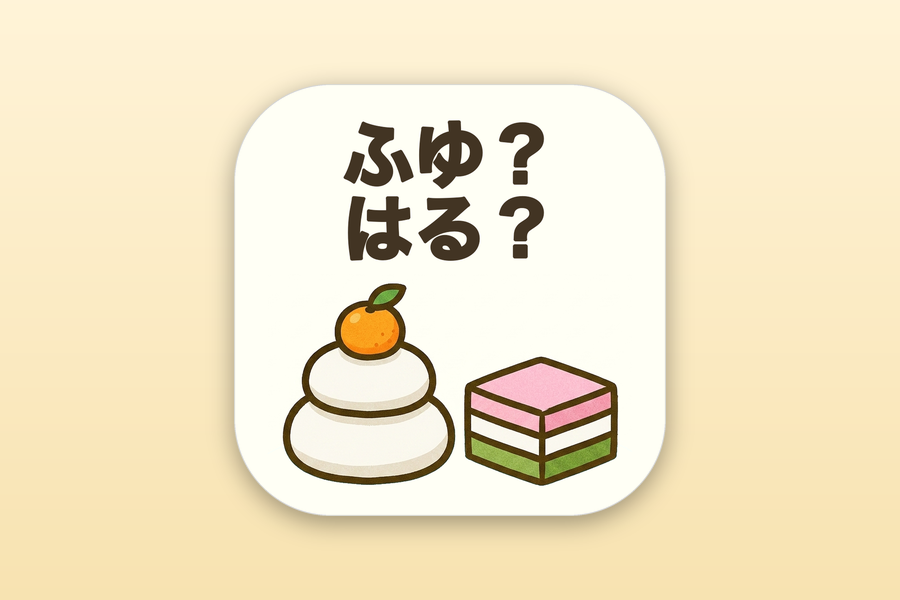
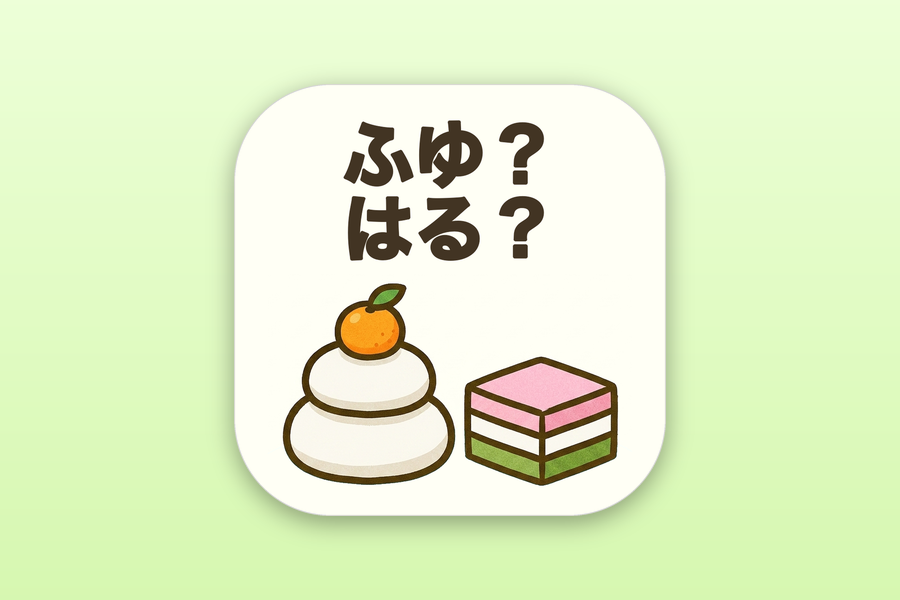
fix: update thumbnail generation script and improve background color handling

diff --git a/tools/make_thumbnail.py b/tools/make_thumbnail.py
@@ -1,11 +1,4 @@
 #!/usr/bin/env python3
-# /// script
-# requires-python = ">=3.10"
-# dependencies = [
-#   "pillow==12.3.0",
-# ]
-# ///
-
 """アプリアイコンからホームページ掲載用サムネイルを生成するCLIツール。
 
 アイコンのドミナントカラー（主要色）を抽出し、その色相のクリーンな
@@ -13,10 +6,10 @@
 アイコンを影付きで載せる。単一色相なので濁った色にならない。
 
 使い方:
-    uv run tools/make_thumbnail.py <icon> <output> [options]
+    python3 tools/make_thumbnail.py <icon> <output> [options]
 
 例:
-    uv run tools/make_thumbnail.py app_icon.png static/images/chibireco.png
+    python3 tools/make_thumbnail.py app_icon.png static/images/chibireco.png
 
 背景をアイコンのぼかし画像にしたい場合は --bg-style blur を指定する。
 """
@@ -57,10 +50,13 @@ def dominant_hue(icon: Image.Image) -> float:
     return best_hue
 
 
-def make_tint_background(icon: Image.Image, size: tuple[int, int], sat: float) -> Image.Image:
-    """ドミナント色相のクリーンなパステル縦グラデーション背景を返す。"""
+def make_tint_background(icon: Image.Image, size: tuple[int, int], sat: float, hue_deg: float | None) -> Image.Image:
+    """ドミナント色相のクリーンなパステル縦グラデーション背景を返す。
+
+    hue_deg (0-360) を指定するとドミナント色の代わりにその色相を使う。
+    """
     w, h = size
-    hue = dominant_hue(icon)
+    hue = (hue_deg / 360) % 1.0 if hue_deg is not None else dominant_hue(icon)
     top = colorsys.hsv_to_rgb(hue, sat * 0.7, 1.0)
     bottom = colorsys.hsv_to_rgb(hue, min(1.0, sat * 1.3), 0.97)
     grad = Image.new("RGB", (1, h))
@@ -158,7 +154,7 @@ def generate(args: argparse.Namespace) -> None:
 
     w, h = args.size
     if args.bg_style == "tint":
-        bg = make_tint_background(icon, args.size, args.tint_sat)
+        bg = make_tint_background(icon, args.size, args.tint_sat, args.hue)
     else:
         bg = make_blur_background(
             icon, args.size, args.bg_blur, args.bg_brightness, args.bg_lighten, args.bg_saturation
@@ -187,6 +183,7 @@ def main() -> None:
     parser.add_argument("--radius", type=float, default=0.2237, help="角丸半径のアイコン辺比率 (デフォルト: iOS風 0.2237)")
     parser.add_argument("--bg-style", choices=["tint", "blur"], default="tint", help="背景の種類 (デフォルト: tint)")
     parser.add_argument("--tint-sat", type=float, default=0.22, help="tint背景の彩度 (デフォルト: 0.22)")
+    parser.add_argument("--hue", type=float, default=None, help="tint背景の色相 0-360 (省略時はアイコンから自動抽出)")
     parser.add_argument("--bg-blur", type=float, default=60, help="blur背景のぼかし半径 (デフォルト: 60)")
     parser.add_argument("--bg-brightness", type=float, default=1.0, help="blur背景の明るさ倍率 (デフォルト: 1.0)")
     parser.add_argument("--bg-lighten", type=float, default=0.42, help="blur背景の白ブレンド率 0-1 (デフォルト: 0.42)")
